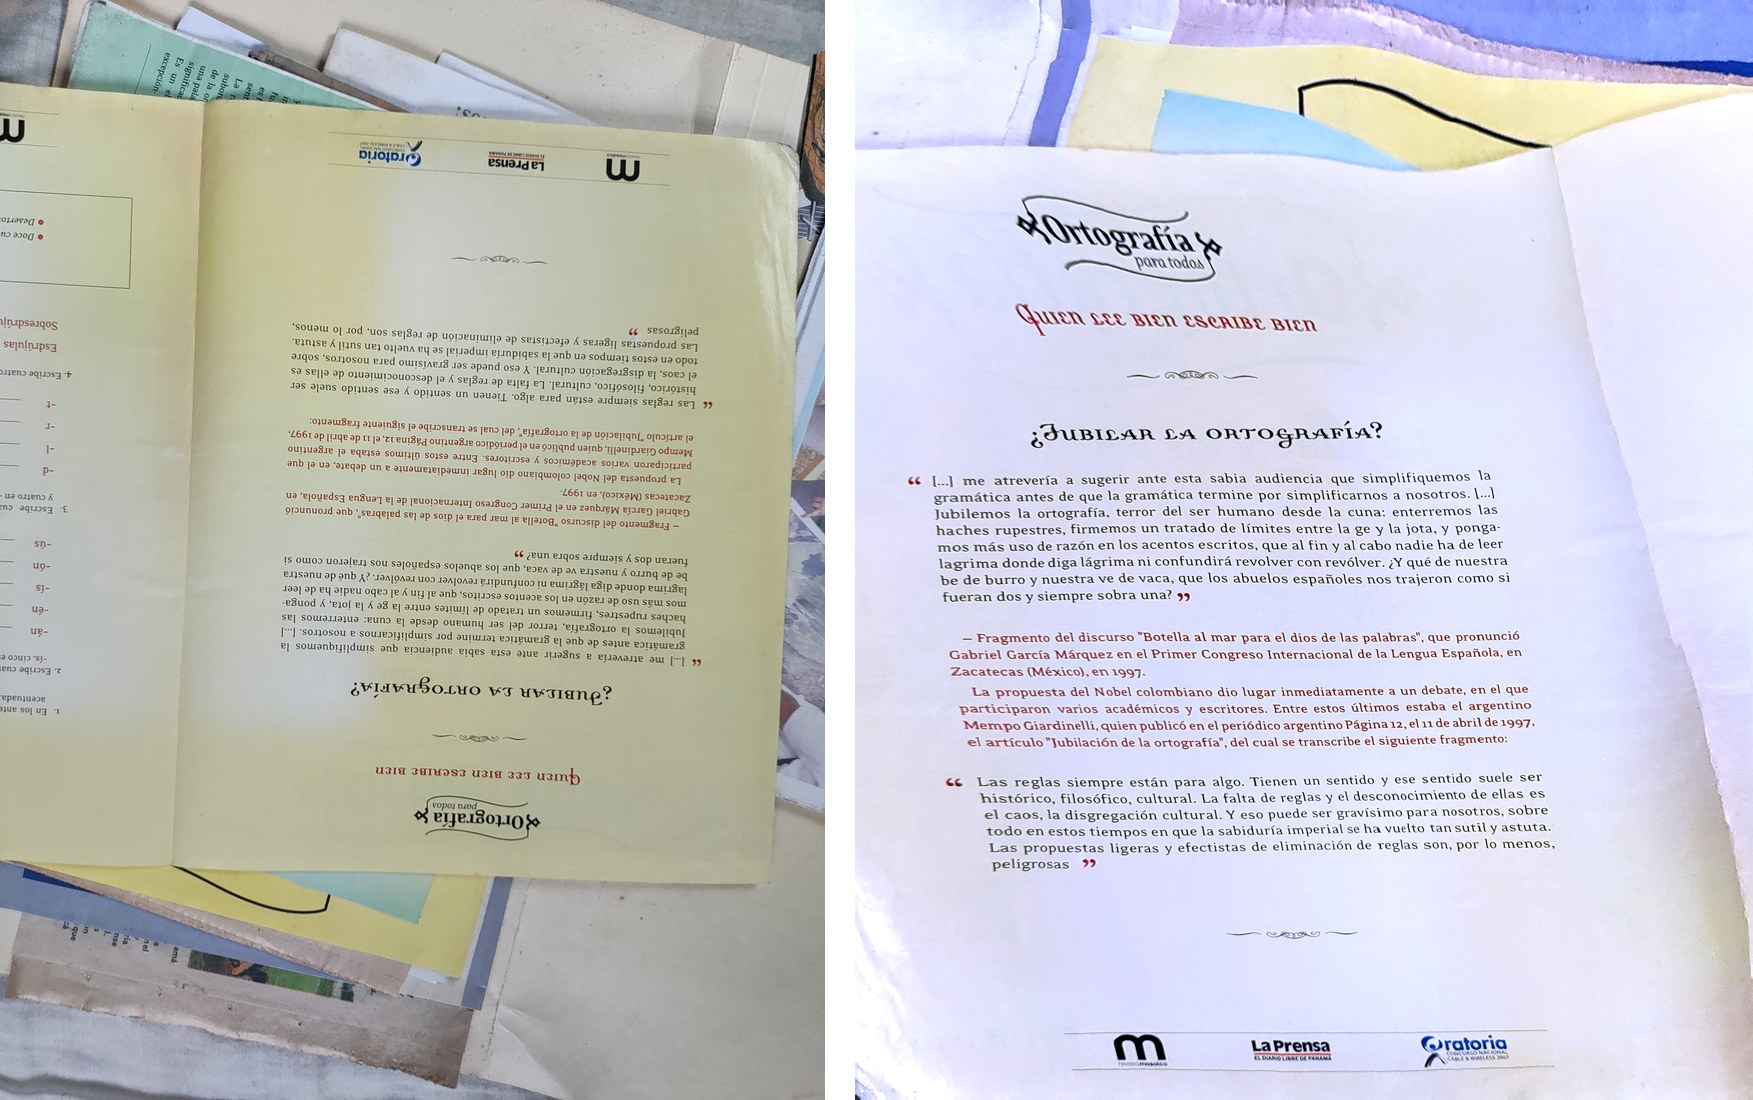
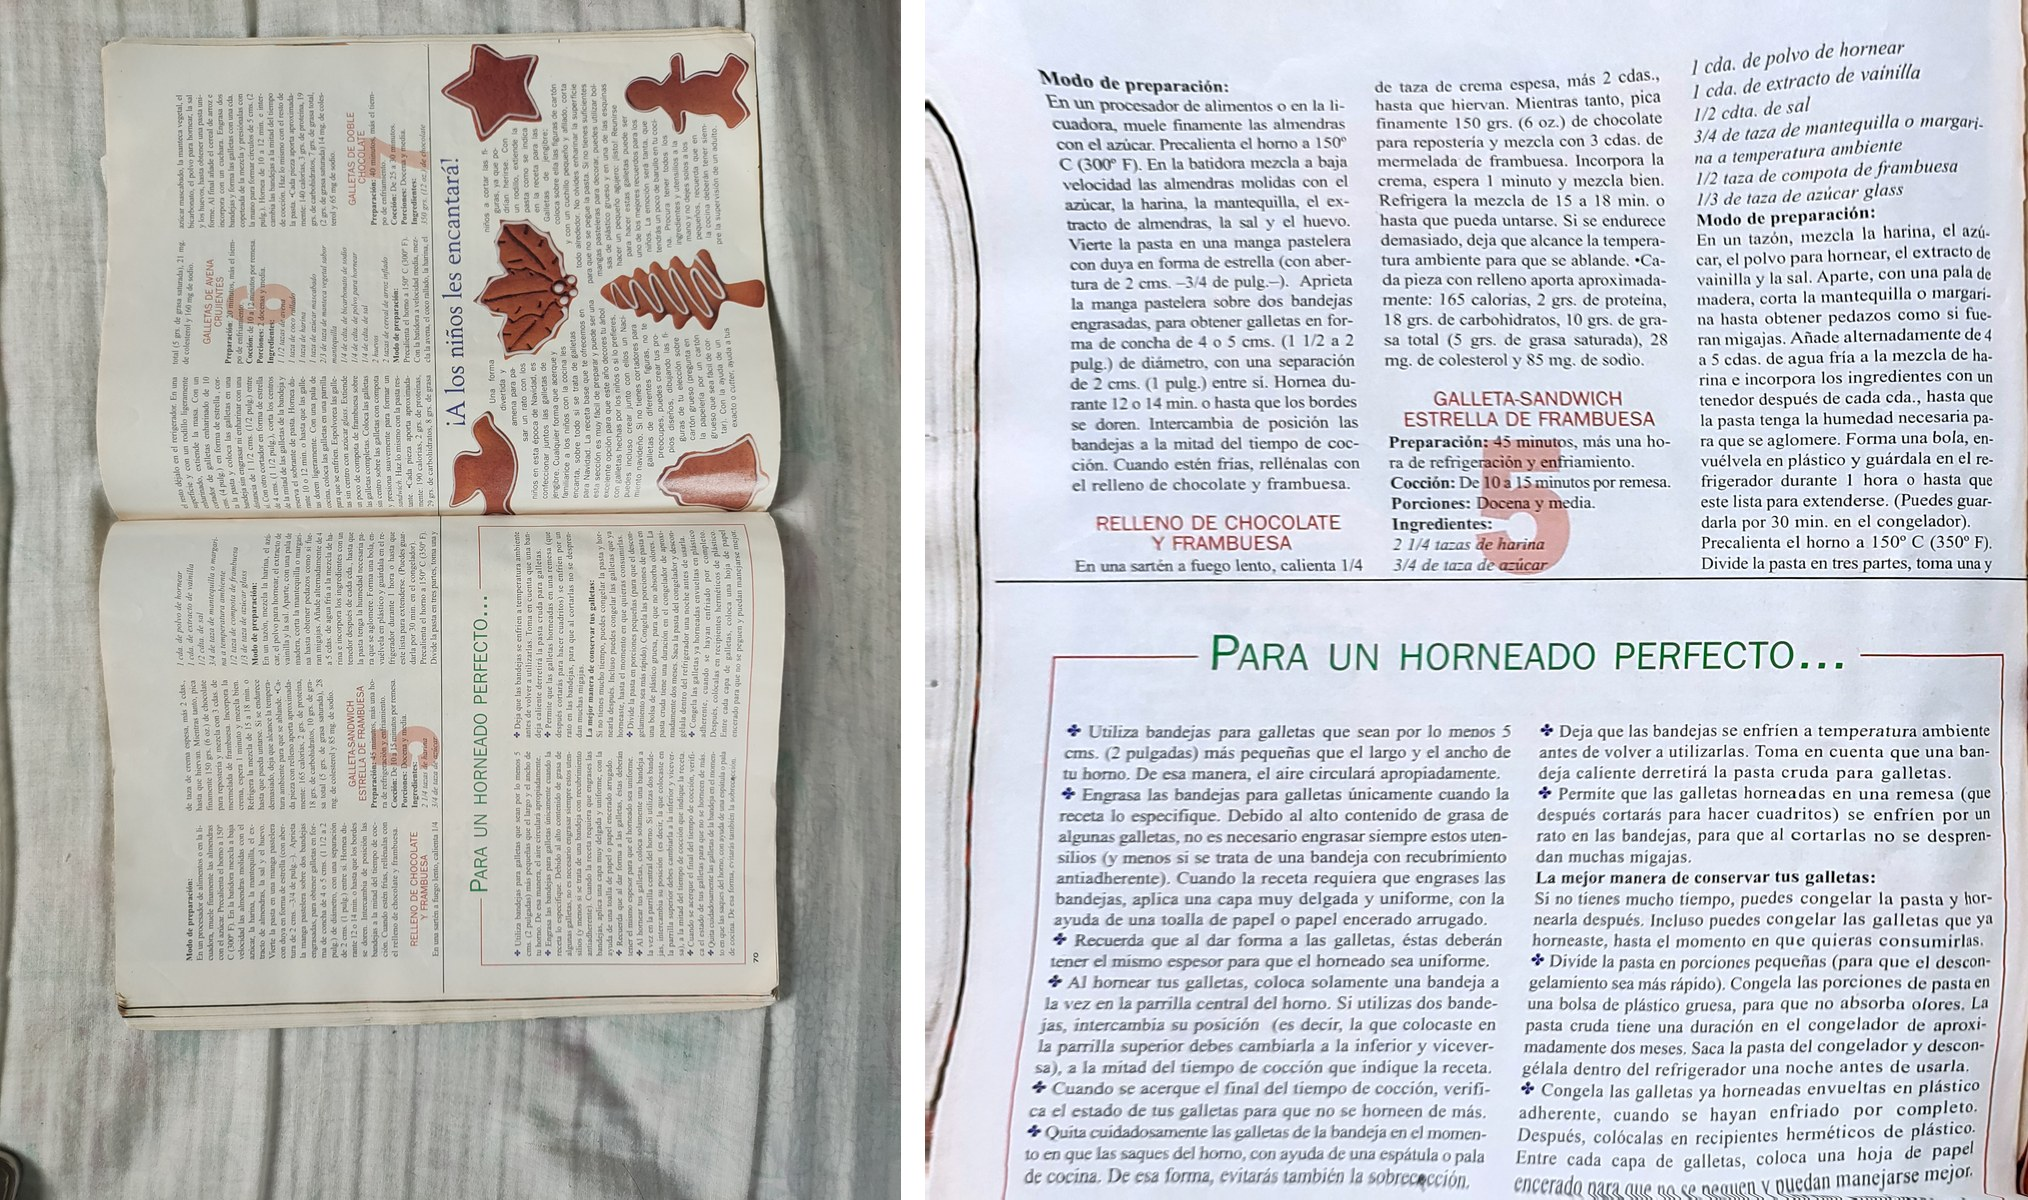
Residual text-line straightening, paper crop, MobileSAM support

diff --git a/pageflat/refine.py b/pageflat/refine.py
@@ -1,0 +1,132 @@
+"""Residual refinement: text-line straightening and paper cropping."""
+from __future__ import annotations
+
+import cv2
+import numpy as np
+
+
+def _line_offset_samples(gray: np.ndarray, max_width: int = 1100):
+    """Sample (x, y, dy) triples on detected text baselines."""
+    h, w = gray.shape
+    scale = min(1.0, max_width / float(w))
+    small = cv2.resize(gray, (int(w * scale), int(h * scale)), interpolation=cv2.INTER_AREA)
+    sh, sw = small.shape
+
+    binary = cv2.adaptiveThreshold(small, 255, cv2.ADAPTIVE_THRESH_MEAN_C,
+                                   cv2.THRESH_BINARY_INV, 31, 15)
+    kx = max(9, sw // 25)
+    lines = cv2.morphologyEx(binary, cv2.MORPH_CLOSE,
+                             cv2.getStructuringElement(cv2.MORPH_RECT, (kx, 1)))
+    lines = cv2.morphologyEx(lines, cv2.MORPH_OPEN,
+                             cv2.getStructuringElement(cv2.MORPH_RECT, (1, 3)))
+    n, labels, stats, _ = cv2.connectedComponentsWithStats(lines, 8)
+
+    samples = []
+    for i in range(1, n):
+        x, y, bw, bh, area = stats[i]
+        if bw < sw * 0.2 or bh > sh * 0.08 or area < 60:
+            continue
+        comp = labels[y:y + bh, x:x + bw] == i
+        cols = np.where(comp.any(axis=0))[0]
+        if len(cols) < 10:
+            continue
+        pts_x, pts_y = [], []
+        for c in np.linspace(cols.min(), cols.max(), 24).astype(int):
+            rows = np.where(comp[:, c])[0]
+            if rows.size:
+                pts_x.append(x + c)
+                pts_y.append(y + rows.mean())
+        if len(pts_x) < 8:
+            continue
+        pts_x = np.array(pts_x, np.float32)
+        pts_y = np.array(pts_y, np.float32)
+        # remove the line's own slope: offset relative to its mean
+        fit = np.polyfit(pts_x, pts_y, 1)
+        resid = pts_y - np.polyval(fit, pts_x)
+        samples.extend((px / sw, py / sh, res / sh)
+                       for px, py, res in zip(pts_x, pts_y, resid))
+    return [(x, y, dy) for x, y, dy in samples], (sw, sh)
+
+
+def _poly_basis(x: np.ndarray, y: np.ndarray, degree: int = 2) -> np.ndarray:
+    """Centred, scaled monomial basis (u, v in [-1, 1]) to keep the fit well conditioned."""
+    u = 2.0 * np.asarray(x, np.float64) - 1.0
+    v = 2.0 * np.asarray(y, np.float64) - 1.0
+    cols = []
+    for i in range(degree + 1):
+        for j in range(degree + 1 - i):
+            cols.append((u ** i) * (v ** j))
+    return np.stack(cols, axis=1)
+
+
+def straighten(img_bgr: np.ndarray, degree: int = 2, max_shift: float = 0.03,
+               iters: int = 3, min_amplitude: float = 0.008) -> np.ndarray:
+    """Flatten residual curvature using detected text baselines."""
+    gray = cv2.cvtColor(img_bgr, cv2.COLOR_BGR2GRAY)
+    samples, _ = _line_offset_samples(gray)
+    if len(samples) < 40:
+        return img_bgr
+    pts = np.array([[x, y] for x, y, _ in samples], np.float64)
+    vals = np.array([dy for _, _, dy in samples], np.float64)
+    spread = float(np.percentile(vals, 95) - np.percentile(vals, 5))
+    if spread < min_amplitude:
+        return img_bgr
+
+    # robust, smooth global fit: residuals are low-order, so a polynomial cannot
+    # blow up the way a local interpolant does
+    A = _poly_basis(pts[:, 0], pts[:, 1], degree)
+    w = np.ones(len(vals))
+    coef = np.zeros(A.shape[1])
+    ridge = 1e-3 * len(vals)
+    for _ in range(iters):
+        Aw = A * w[:, None]
+        AtA = Aw.T @ Aw + ridge * np.eye(A.shape[1])
+        coef = np.linalg.solve(AtA, Aw.T @ (vals * w))
+        resid = vals - A @ coef
+        sigma = 1.4826 * np.median(np.abs(resid - np.median(resid))) + 1e-6
+        w = 1.0 / (1.0 + (resid / (3 * sigma)) ** 2)
+
+    h, w_img = img_bgr.shape[:2]
+    gy, gx = np.mgrid[0:h, 0:w_img].astype(np.float32)
+    B = _poly_basis((gx.ravel() / w_img).astype(np.float64),
+                    (gy.ravel() / h).astype(np.float64), degree)
+    field = (B @ coef).reshape(h, w_img).astype(np.float32)
+    np.clip(field, -max_shift, max_shift, out=field)
+
+    # only trust the correction where text actually exists
+    y_lo, y_hi = pts[:, 1].min(), pts[:, 1].max()
+    ramp = np.clip((gy / h - (y_lo - 0.03)) / 0.03, 0, 1) * \
+        np.clip(((y_hi + 0.03) - gy / h) / 0.03, 0, 1)
+    field *= ramp.astype(np.float32)
+
+
+
+    map_x = gx
+    map_y = gy - field * h
+    return cv2.remap(img_bgr, map_x, map_y, cv2.INTER_CUBIC,
+                     borderMode=cv2.BORDER_REPLICATE)
+
+
+def crop_to_paper(img_bgr: np.ndarray, margin: float = 0.01) -> np.ndarray:
+    """Keep the largest bright, low-saturation region (the sheet itself)."""
+    hsv = cv2.cvtColor(img_bgr, cv2.COLOR_BGR2HSV)
+    sat, val = hsv[:, :, 1], hsv[:, :, 2]
+    mask = ((sat < 60) & (val > 110)).astype(np.uint8)
+    mask = cv2.morphologyEx(mask, cv2.MORPH_CLOSE, np.ones((15, 15), np.uint8))
+    n, labels, stats, _ = cv2.connectedComponentsWithStats(mask, 8)
+    if n <= 1:
+        return img_bgr
+    h, w = mask.shape
+    centre = labels[h // 2, w // 2]
+    if centre == 0:
+        areas = stats[1:, cv2.CC_STAT_AREA]
+        centre = 1 + int(np.argmax(areas))
+    x, y, bw, bh, area = stats[centre]
+    if area < 0.2 * h * w:
+        return img_bgr
+    mx, my = int(margin * w), int(margin * h)
+    x0, y0 = max(0, x - mx), max(0, y - my)
+    x1, y1 = min(w, x + bw + mx), min(h, y + bh + my)
+    if (x1 - x0) * (y1 - y0) < 0.25 * h * w:
+        return img_bgr
+    return img_bgr[y0:y1, x0:x1]

diff --git a/tests/test_refine.py b/tests/test_refine.py
@@ -1,0 +1,56 @@
+import cv2
+import numpy as np
+
+from pageflat.refine import straighten
+
+
+def _text_page(w=900, h=1200):
+    img = np.full((h, w, 3), 250, np.uint8)
+    for i, y in enumerate(range(80, h - 80, 46)):
+        cv2.putText(img, "the quick brown fox jumps over the lazy dog " * 2,
+                    (40, y), cv2.FONT_HERSHEY_SIMPLEX, 0.55, (25, 25, 25), 1, cv2.LINE_AA)
+    return img
+
+
+def _warp(img, amp=28.0):
+    h, w = img.shape[:2]
+    yy, xx = np.mgrid[0:h, 0:w].astype(np.float32)
+    dy = amp * np.sin(2 * np.pi * xx / w) * (0.3 + 0.7 * yy / h)
+    return cv2.remap(img, xx, yy + dy, cv2.INTER_CUBIC, borderMode=cv2.BORDER_REPLICATE)
+
+
+def _line_wobble(img):
+    """Mean vertical spread of detected text baselines (lower is straighter)."""
+    gray = cv2.cvtColor(img, cv2.COLOR_BGR2GRAY)
+    binary = cv2.adaptiveThreshold(gray, 255, cv2.ADAPTIVE_THRESH_MEAN_C,
+                                   cv2.THRESH_BINARY_INV, 31, 15)
+    lines = cv2.morphologyEx(binary, cv2.MORPH_CLOSE,
+                             cv2.getStructuringElement(cv2.MORPH_RECT, (41, 1)))
+    n, labels, stats, _ = cv2.connectedComponentsWithStats(lines, 8)
+    spreads = []
+    for i in range(1, n):
+        x, y, bw, bh, area = stats[i]
+        if bw < gray.shape[1] * 0.3 or bh > 40:
+            continue
+        comp = labels[y:y + bh, x:x + bw] == i
+        cols = np.where(comp.any(axis=0))[0]
+        if len(cols) < 50:
+            continue
+        ys = [np.where(comp[:, c])[0].mean() for c in cols]
+        spreads.append(np.std(ys))
+    return float(np.mean(spreads)) if spreads else 0.0
+
+
+def test_straighten_reduces_baseline_wobble():
+    flat = _text_page()
+    warped = _warp(flat)
+    before = _line_wobble(warped)
+    after = _line_wobble(straighten(warped))
+    assert before > 1.5, before
+    assert after < before * 0.5, (before, after)
+
+
+def test_straighten_is_noop_on_flat_page():
+    flat = _text_page()
+    out = straighten(flat)
+    assert np.array_equal(out, flat)

diff --git a/scripts/refine_scan.py b/scripts/refine_scan.py
@@ -1,0 +1,44 @@
+#!/usr/bin/env python3
+"""Residual refinement for already-flattened scans (see pageflat.refine)."""
+from __future__ import annotations
+
+import argparse
+from pathlib import Path
+
+import sys
+from pathlib import Path
+
+import cv2
+
+sys.path.insert(0, str(Path(__file__).resolve().parents[1]))
+
+from pageflat.refine import crop_to_paper, straighten
+
+
+def main(argv=None) -> int:
+    ap = argparse.ArgumentParser()
+    ap.add_argument("scans")
+    ap.add_argument("--out", required=True)
+    ap.add_argument("--no-straighten", action="store_true")
+    ap.add_argument("--no-crop", action="store_true")
+    args = ap.parse_args(argv)
+
+    src = Path(args.scans)
+    out = Path(args.out)
+    out.mkdir(parents=True, exist_ok=True)
+    files = sorted(src.glob("*.png"))
+    for i, path in enumerate(files, 1):
+        img = cv2.imread(str(path))
+        if img is None:
+            continue
+        if not args.no_crop:
+            img = crop_to_paper(img)
+        if not args.no_straighten:
+            img = straighten(img)
+        cv2.imwrite(str(out / path.name), img, [cv2.IMWRITE_PNG_COMPRESSION, 3])
+        print(f"[{i}/{len(files)}] {path.name}", flush=True)
+    return 0
+
+
+if __name__ == "__main__":
+    raise SystemExit(main())

diff --git a/pageflat/samseg.py b/pageflat/samseg.py
@@ -16,8 +16,13 @@ import numpy as np
 
 class SamPageSegmenter:
     def __init__(self, checkpoint: str | Path, device: str = "cuda",
-                 model_type: str = "vit_b"):
-        from segment_anything import SamPredictor, sam_model_registry
+                 model_type: str | None = None):
+        if model_type is None:
+            model_type = "vit_t" if "mobile" in Path(checkpoint).name.lower() else "vit_b"
+        if model_type == "vit_t":
+            from mobile_sam import SamPredictor, sam_model_registry
+        else:
+            from segment_anything import SamPredictor, sam_model_registry
 
         sam = sam_model_registry[model_type](checkpoint=str(checkpoint))
         sam.to(device).eval()
